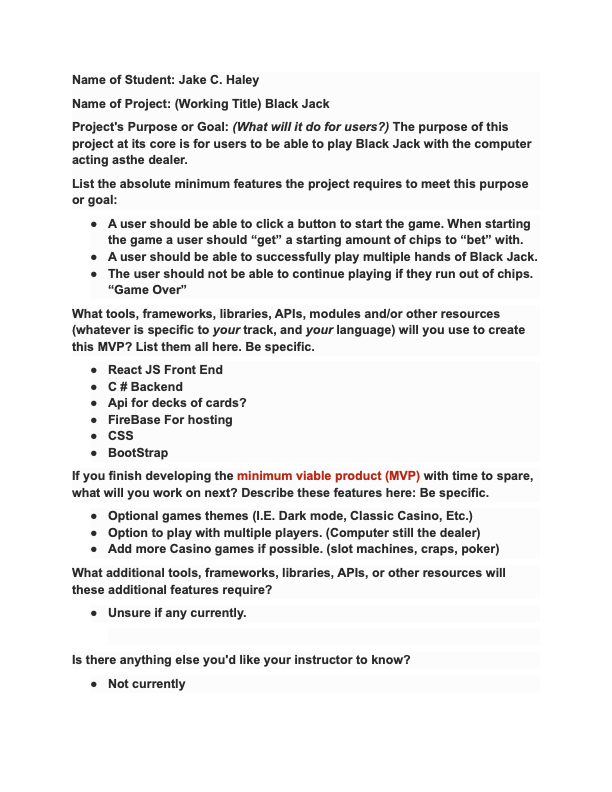
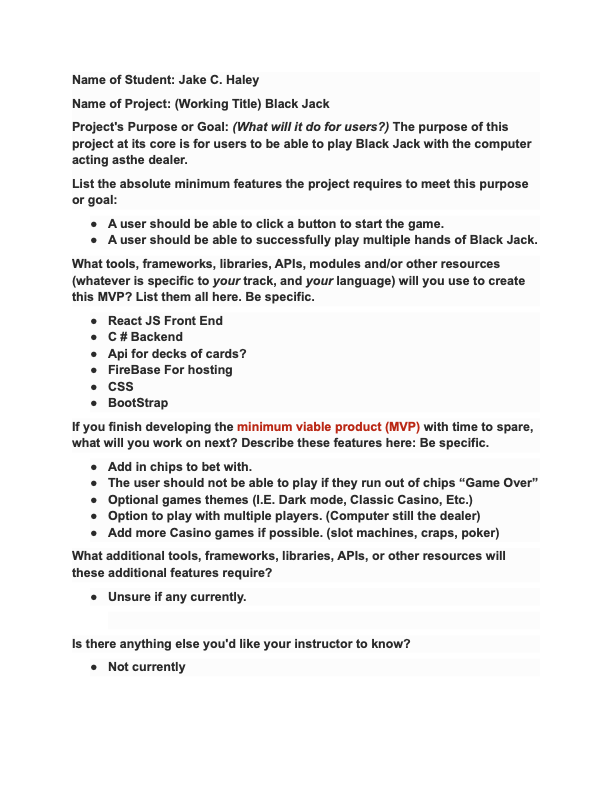
showcase work i've done today

Changed region(s): [[0.0931, 0.2727, 0.8693, 0.8788]]

diff --git a/README.md b/README.md
@@ -1,4 +1,23 @@
 ### Research & Planning Log
 #### Friday, 04/29
 
-* 8:15 Start working on proposal/Eat breakfast (-:
+* 8:30 Start working on proposal/Eat breakfast (-:
+* 9:25 Start working on App Planner
+* 10:00 Start researching API's to use (Maybe use DeckofCardsApi found [here](https://deckofcardsapi.com/) )
+* 11:00 Start watching videos/doing research to get an idea of where to start
+* 12:00 Go To Lunch
+* 1:00 Back from lunch/ Continue research. 
+* 2:00 Continue research. Reading articles/gathering material.
+* 3:00 Continue research
+* 4:00 begin reading weekend homework to see if I want to use firebase at all
+* 5:00 end day
+
+Lots of work today was reading/watching videos/finding assets to use for the project. Looked at a few different black jack apps for design inspiration. 
+## Assets found:
+
+* [Black Jack In react tutorial](https://react.rocks/example/Blackjack)
+* [CodePen Blackjack tutorial](https://codepen.io/jeffleu/pen/MbVGmM?editors=0010)
+* [Black jack Game logic basics with hooks](https://blog.devgenius.io/blackjack-game-logic-basics-built-with-react-hooks-8e7e41fbbb87)
+* [Deck of Cards API](https://deckofcardsapi.com/)
+* [Video of Developer Reviewing Black Jack app](https://www.youtube.com/watch?v=69fcMxk3pq0&t=1356s)
+* [Video demo of a Black jack app](https://www.youtube.com/watch?v=Es5kJumQYdI&t=4s)

diff --git a/capstone-proposal.md b/capstone-proposal.md
@@ -1,1 +1,2 @@
 <img src="CapstoneProposal.png" width="auto">
+<img src="BlackJackPlanner.drawio.png" width="auto">
